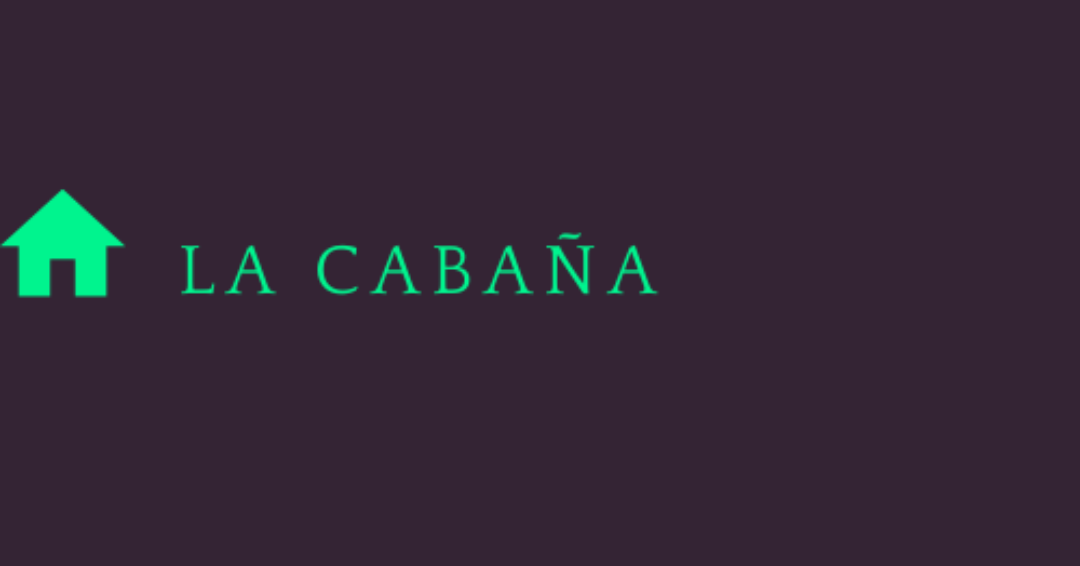
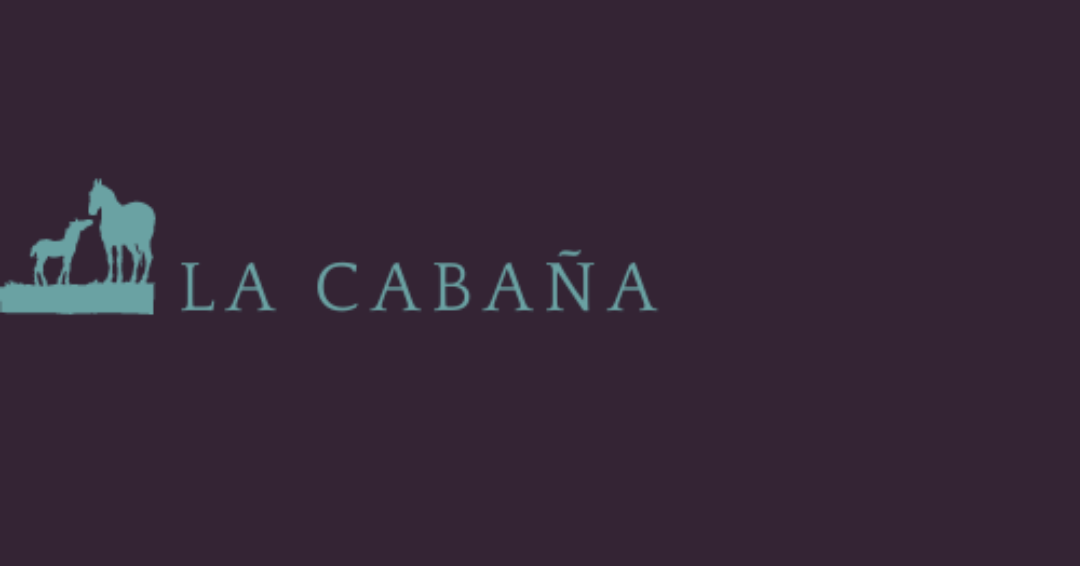
ultimos detalles

Changed region(s): [[0.0, 0.3304, 0.6111, 0.5707]]

diff --git a/public/javascript/laMoritaPrueba.js b/public/javascript/laMoritaPrueba.js
@@ -107,6 +107,101 @@ instalacionesClick6.style.display = "none"
        
     })
 
- 
+    //carousel doma
+
+    let domaClick = document.getElementById("domaClick")
+    let domaClick2 = document.getElementById("domaClick2")
+    domaClick2.style.display = "none"
+    let domaClick3 = document.getElementById("domaClick3")
+    domaClick3.style.display = "none"
+    let domaClick4 = document.getElementById("domaClick4")
+    domaClick4.style.display = "none"
+    let domaClick5 = document.getElementById("domaClick5")
+    domaClick5.style.display = "none"
+    
+
+    domaClick.addEventListener("click" , function(){
+        domaClick.style.display = "none"
+        domaClick2.style.display = "inline"  
+      
+    })
+    domaClick2.addEventListener("click" , function(){
+        domaClick.style.display = "none"
+        domaClick2.style.display = "none"  
+        domaClick3.style.display = "inline"
+   
+    })
+    domaClick3.addEventListener("click" , function(){
+        domaClick4.style.display = "inline"
+        domaClick.style.display = "none"
+        domaClick2.style.display = "none"  
+        domaClick3.style.display = "none" 
+   
+    })
+    domaClick4.addEventListener("click" , function(){
+        domaClick5.style.display = "inline"
+        domaClick2.style.display = "none"  
+        domaClick3.style.display = "none" 
+        domaClick4.style.display = "none"
+        domaClick.style.display = "none"
+       
+    })
+    domaClick5.addEventListener("click" , function(){
+        domaClick.style.display = "inline"
+        domaClick2.style.display = "none"  
+        domaClick3.style.display = "none" 
+        domaClick4.style.display = "none"
+        domaClick5.style.display = "none"
+       
+    })
+
+//carousel pension
+
+let pensionClick = document.getElementById("pensionClick")
+let pensionClick2 = document.getElementById("pensionClick2")
+pensionClick2.style.display = "none"
+let pensionClick3 = document.getElementById("pensionClick3")
+pensionClick3.style.display = "none"
+let pensionClick4 = document.getElementById("pensionClick4")
+pensionClick4.style.display = "none"
+let pensionClick5 = document.getElementById("pensionClick5")
+pensionClick5.style.display = "none"
+
+
+pensionClick.addEventListener("click" , function(){
+    pensionClick.style.display = "none"
+    pensionClick2.style.display = "inline"  
+  
+})
+pensionClick2.addEventListener("click" , function(){
+    pensionClick.style.display = "none"
+    pensionClick2.style.display = "none"  
+    pensionClick3.style.display = "inline"
+
+})
+pensionClick3.addEventListener("click" , function(){
+    pensionClick4.style.display = "inline"
+    pensionClick.style.display = "none"
+    pensionClick2.style.display = "none"  
+    pensionClick3.style.display = "none" 
+
+})
+pensionClick4.addEventListener("click" , function(){
+    pensionClick5.style.display = "inline"
+    pensionClick2.style.display = "none"  
+    pensionClick3.style.display = "none" 
+    pensionClick4.style.display = "none"
+    pensionClick.style.display = "none"
+   
+})
+pensionClick5.addEventListener("click" , function(){
+    pensionClick.style.display = "inline"
+    pensionClick2.style.display = "none"  
+    pensionClick3.style.display = "none" 
+    pensionClick4.style.display = "none"
+    pensionClick5.style.display = "none"
+   
+})
+
 
 })

diff --git a/public/css/styles.css b/public/css/styles.css
@@ -27,6 +27,23 @@ main{
     
     
     
+    
+}
+#conteiner-laMorita{
+    display: flex;
+    flex-wrap: wrap;
+    flex-direction: column;
+    justify-content: center;
+    
+    
+}
+
+#logo-lamorita{
+
+    display: flex;
+    flex-wrap: nowrap;
+    justify-content: center;
+    
 }
 .category-product{
     display: flex;
@@ -199,6 +216,15 @@ main{
     align-items:baseline;
 }
 
+.menuLamorita{
+    margin-left: 15%;
+    display:flex;
+    justify-content: space-around;
+    align-items:baseline;
+    width: 70%;
+    justify-content: center;
+}
+
 .categoria-listado:hover .overlayList {
     opacity: 1;
   }
@@ -346,4 +372,7 @@ margin-left: 32% ; */
 }
 #mainColor-lamorita{
     background-color: #342434;
+}
+.doma-text{
+    color: #6aa2a3;
 }
